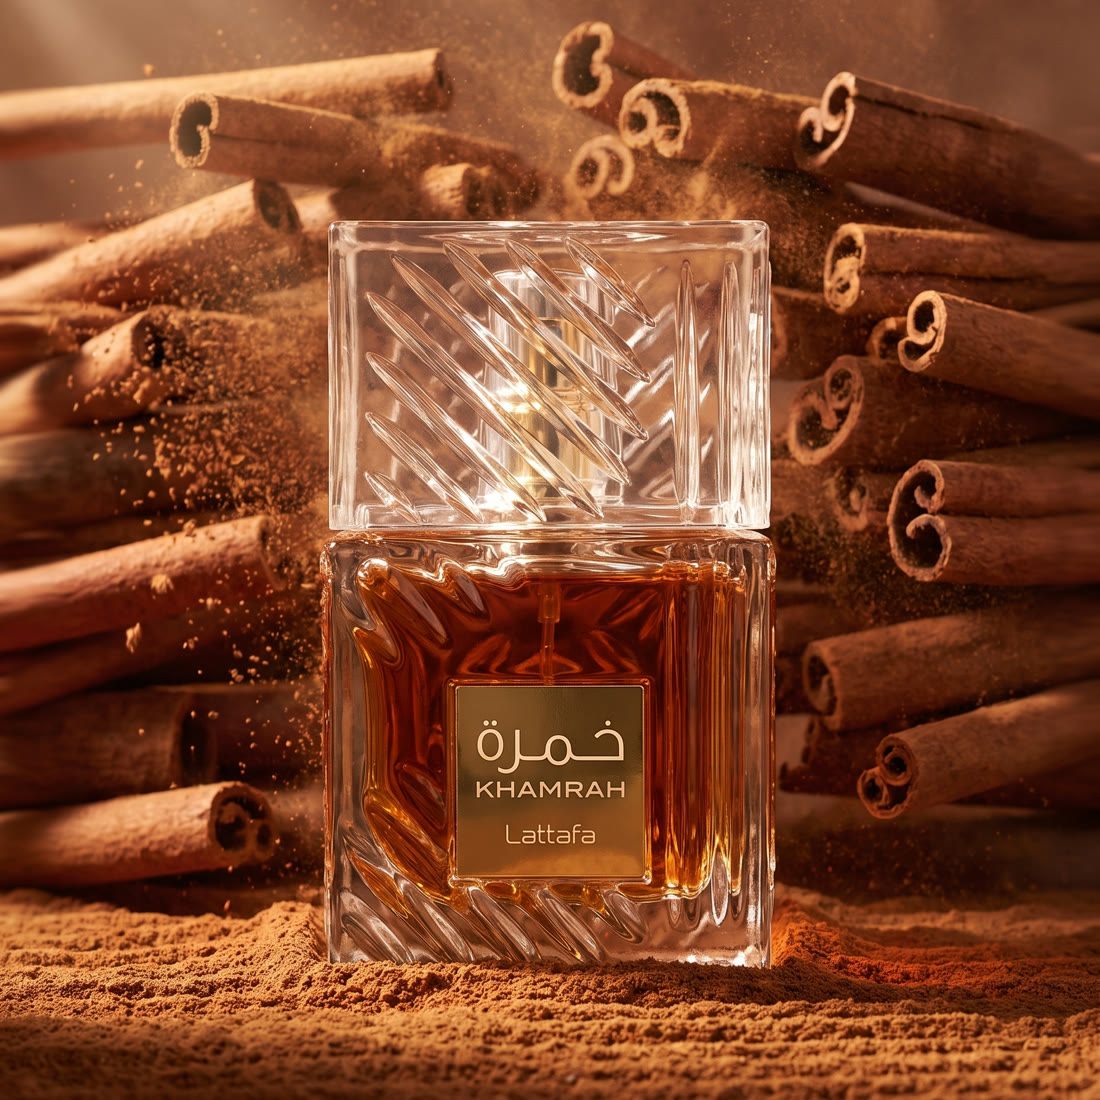
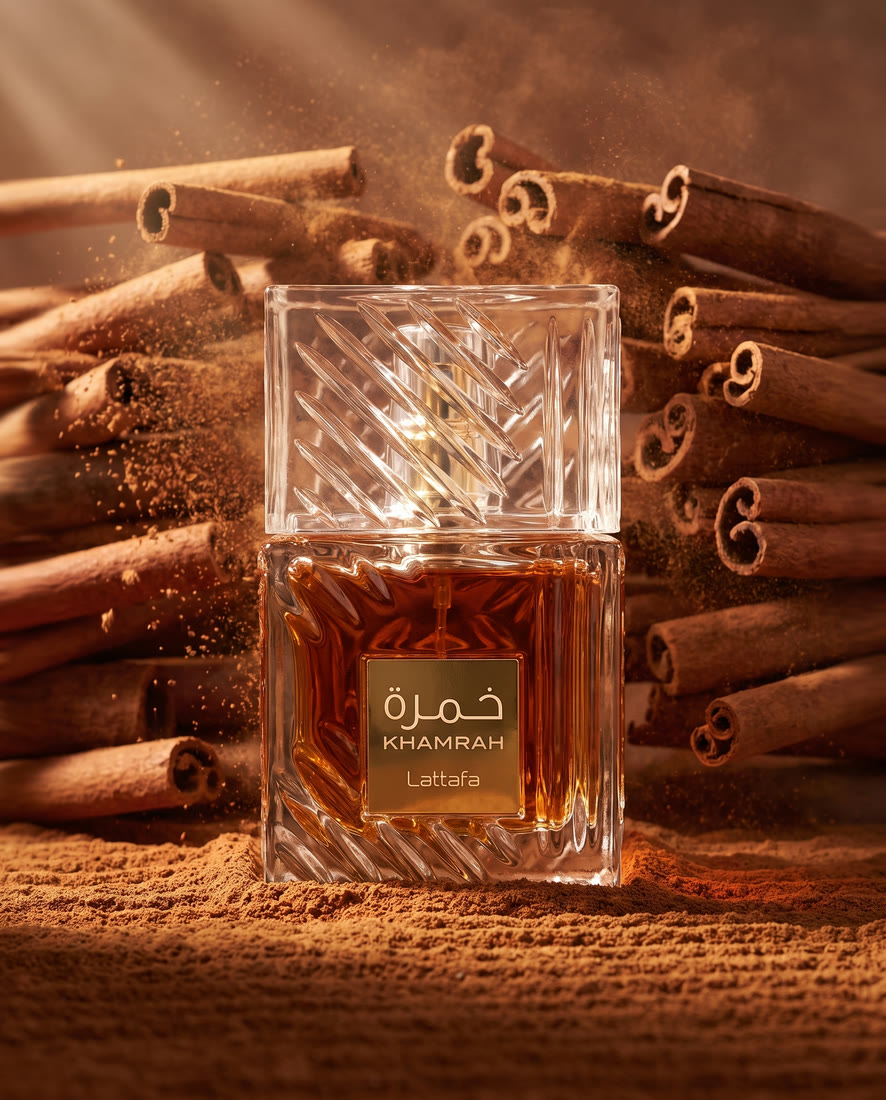
fix: quatre retouches — pastilles, cadrage, bouton, vignettes de stories
La preuve sociale monte à côté du compteur de pays : les deux chiffres qui
rassurent se lisent d'une traite, et délai et suivi occupent la rangée du
bas. Sans pays vérifié, les trois pastilles gardent leur ordre.

Le visuel de Khamrah était recadré en carré alors que la source ET le cadre
de la carte sont en portrait : le flacon s'en trouvait agrandi au point que
le bouchon débordait. Simple mise à l'échelle, 886×1100, plus de recadrage.

Le bouton « Ajouter au panier » de la fiche passe de 48 à 42 px : il pesait
plus lourd que le prix qu'il sert.

Les noms des stories sortent du cadre des vignettes. Posés dessus, ils
imposaient un dégradé noir sur le tiers bas de chaque poster — donc sur le
flacon, qui est justement ce qu'on vient y reconnaître. À côté, ils ne
masquent rien et le titre n'a plus à tenir en deux lignes de 9 px.

Claude-Session: https://claude.ai/code/session_014Qwme6QkAXqVWf5pVpJxnk

diff --git a/src/components/sections/StoryPlayer.tsx b/src/components/sections/StoryPlayer.tsx
@@ -312,58 +312,69 @@ export function StoryPlayer({
               aria-label={s.title ?? `Story ${i + 1}`}
               aria-current={i === index}
               style={{
-                position: "relative",
-                width: 82,
-                height: 108,
-                borderRadius: 12,
-                overflow: "hidden",
+                display: "flex",
+                alignItems: "center",
+                gap: 10,
                 cursor: "pointer",
                 padding: 0,
-                border: i === index ? "2px solid #fff" : "2px solid transparent",
-                background: "#222",
+                border: "none",
+                background: "transparent",
                 flexShrink: 0,
+                // Le nom se lit du côté de la colonne : à droite des vignettes
+                // en lecture latine, à leur gauche en arabe.
+                flexDirection: isRTL ? "row-reverse" : "row",
+                textAlign: isRTL ? "right" : "left",
               }}
             >
-              {/* eslint-disable-next-line @next/next/no-img-element */}
-              <img src={s.posterUrl} alt="" style={{ width: "100%", height: "100%", objectFit: "cover", opacity: i === index ? 1 : 0.7 }} />
-              {/* Nom et prix sur un dégradé plutôt qu'une pastille opaque : le bas
-                  des posters est sombre, le texte y reste lisible sans masquer le
-                  flacon. Une vignette sans nom obligeait à ouvrir chaque story
-                  pour savoir de quel parfum il s'agissait. */}
+              <span
+                style={{
+                  position: "relative",
+                  width: 82,
+                  height: 108,
+                  borderRadius: 12,
+                  overflow: "hidden",
+                  border: i === index ? "2px solid #fff" : "2px solid transparent",
+                  background: "#222",
+                  flexShrink: 0,
+                  display: "block",
+                }}
+              >
+                {/* eslint-disable-next-line @next/next/no-img-element */}
+                <img src={s.posterUrl} alt="" style={{ width: "100%", height: "100%", objectFit: "cover", opacity: i === index ? 1 : 0.7 }} />
+              </span>
+
+              {/* Nom et prix SORTIS du cadre. Posés dessus, ils imposaient un
+                  dégradé noir sur le tiers bas de chaque poster — c'est-à-dire
+                  sur le flacon, qui est justement ce qu'on vient reconnaître.
+                  À côté, ils se lisent sans rien masquer, et le titre n'a plus
+                  à tenir en deux lignes de 9 px. */}
               {(s.title || s.shop) && (
                 <span
                   style={{
-                    position: "absolute",
-                    insetInline: 0,
-                    bottom: 0,
                     display: "flex",
                     flexDirection: "column",
-                    gap: 1,
-                    padding: "12px 4px 4px",
-                    background: "linear-gradient(to top, rgba(0,0,0,.82) 40%, transparent)",
+                    gap: 2,
+                    maxWidth: 120,
                     fontFamily: "var(--font-sans)",
+                    // Ombre portée plutôt qu'un fond : la colonne flotte sur la
+                    // vidéo, dont la luminosité change à chaque story.
+                    textShadow: "0 1px 6px rgba(0,0,0,.85)",
                   }}
                 >
                   {s.title && (
                     <span
                       style={{
-                        fontSize: 9,
-                        lineHeight: 1.15,
+                        fontSize: 12,
+                        lineHeight: 1.2,
                         fontWeight: 600,
-                        color: "#fff",
-                        // deux lignes au plus : « Réveil en Lusitanie » ne doit pas
-                        // pousser le prix hors de la vignette
-                        display: "-webkit-box",
-                        WebkitLineClamp: 2,
-                        WebkitBoxOrient: "vertical",
-                        overflow: "hidden",
+                        color: i === index ? "#fff" : "rgba(255,255,255,.72)",
                       }}
                     >
                       {s.title}
                     </span>
                   )}
                   {s.shop && (
-                    <span style={{ fontSize: 9, fontWeight: 700, color: "var(--gold-300)" }}>
+                    <span style={{ fontSize: 11.5, fontWeight: 700, color: "var(--gold-300)" }}>
                       {fmtPrice(s.shop.price)}
                     </span>
                   )}

diff --git a/src/app/[locale]/produit/[slug]/AddToCart.tsx b/src/app/[locale]/produit/[slug]/AddToCart.tsx
@@ -153,7 +153,11 @@ export default function AddToCart({ productName, price }: AddToCartProps) {
           onClick={handleAddToCart}
           style={{
             flex: 1,
-            height: "48px",
+            // 42px et non 48 : le bouton pesait plus lourd que le prix qu'il
+            // sert. Il reste au-dessus des 44px de cible tactile grâce à ses
+            // marges, et garde la pleine largeur restante — c'est l'action
+            // principale de la fiche, seule sa hauteur baisse.
+            height: "42px",
             background: cartAdded
               ? "var(--gold-700)"
               : "linear-gradient(100deg, #9C6A1A 0%, #C8901E 50%, #D8A63A 100%)",
@@ -162,7 +166,7 @@ export default function AddToCart({ productName, price }: AddToCartProps) {
             borderRadius: "var(--r-sm)",
             fontFamily: "var(--font-sans)",
             fontWeight: "var(--fw-semibold)",
-            fontSize: "var(--t-body)",
+            fontSize: "var(--t-sm)",
             letterSpacing: "var(--ls-wide)",
             textTransform: "uppercase",
             cursor: "pointer",

diff --git a/src/components/sections/ShippingChecker.tsx b/src/components/sections/ShippingChecker.tsx
@@ -602,9 +602,16 @@ export function ShippingChecker({
               marginTop: 4,
             }}
           >
-            {[otherServedText, L.statPrep, L.statTracking, ordersText]
-              .filter((t): t is string => Boolean(t))
-              .map((text, i) => (
+            {/* La preuve sociale monte en haut à droite, à côté du compteur de
+                pays : les deux chiffres qui rassurent se lisent alors d'une
+                seule traite, et les deux modalités d'expédition — délai et
+                suivi — occupent la rangée du bas. Sans pays vérifié il n'y a
+                pas de compteur, et les trois pastilles gardent l'ordre
+                d'origine. */}
+            {(ordersText
+              ? [otherServedText, ordersText, L.statTracking, L.statPrep]
+              : [otherServedText, L.statPrep, L.statTracking]
+            ).map((text, i) => (
               <div
                 key={i}
                 style={{
